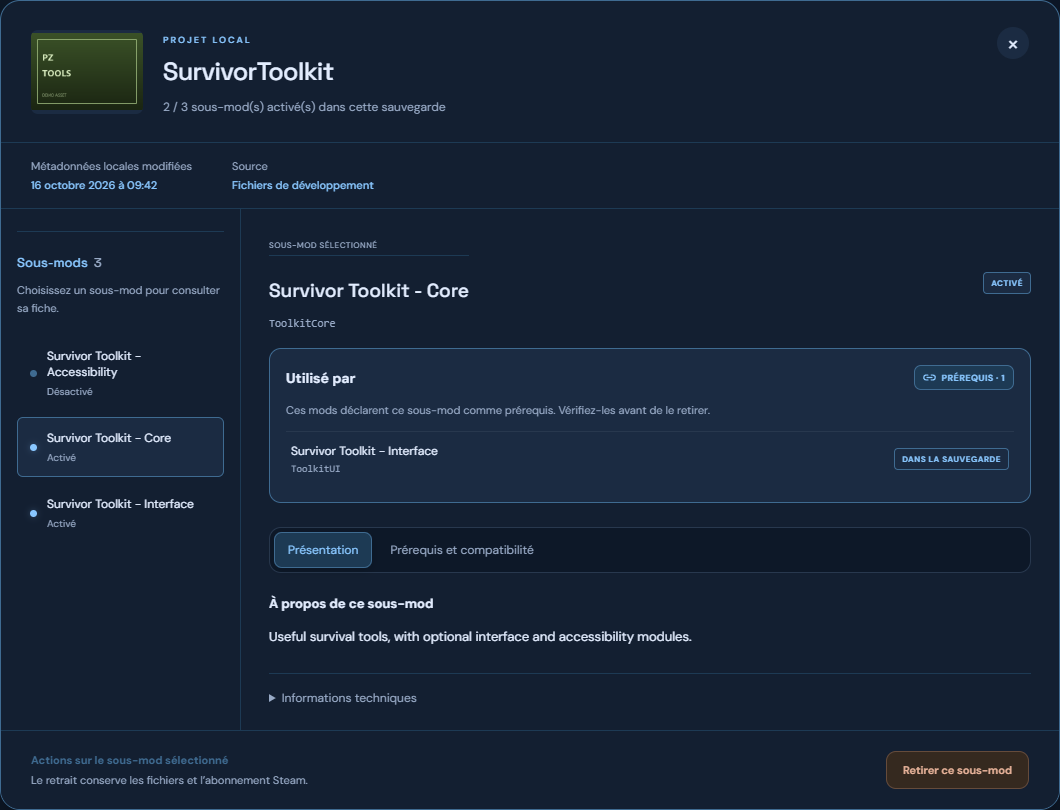
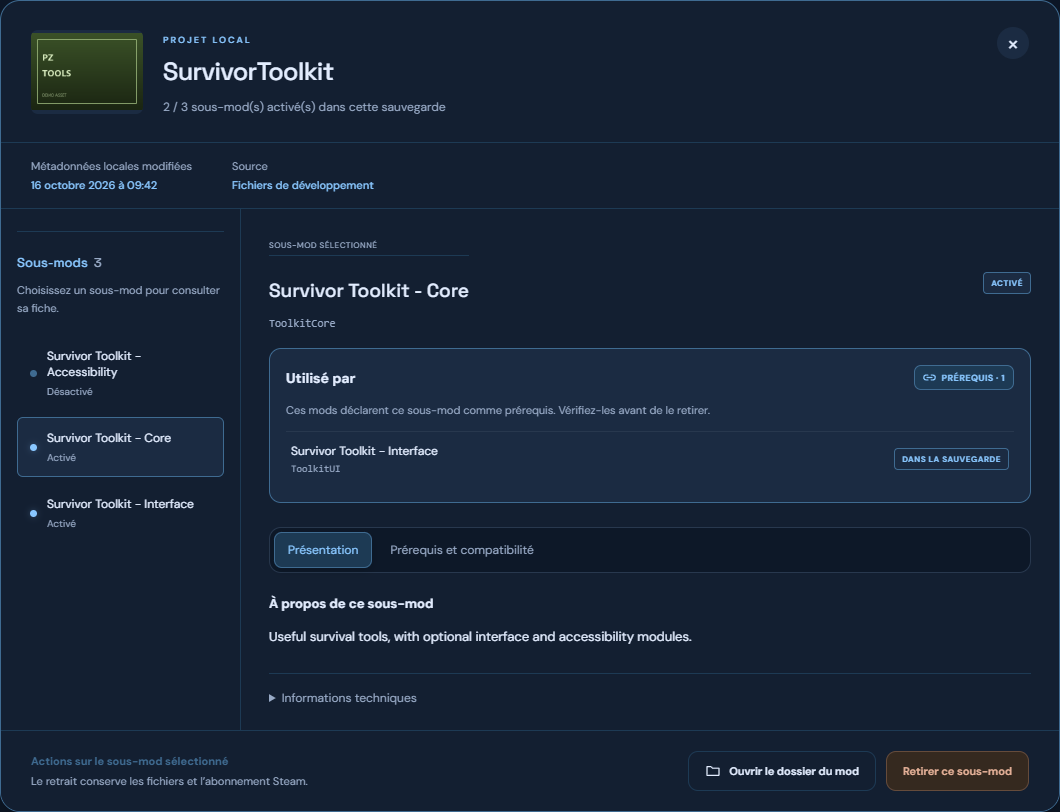
Open installed mod folders from the detail dialog

diff --git a/test/explorer.test.ts b/test/explorer.test.ts
@@ -1,0 +1,98 @@
+import assert from 'node:assert/strict';
+import { test } from 'node:test';
+import fs from 'node:fs/promises';
+import os from 'node:os';
+import path from 'node:path';
+import { ExplorerService } from '../src/application/explorer.js';
+import { LocalLibrary } from '../src/adapters/local-library.js';
+
+test('Explorer service only opens a known opaque directory key through its port', async () => {
+  const key = 'a'.repeat(24);
+  const opened: string[] = [];
+  const resolved: string[] = [];
+  const service = new ExplorerService(
+    {
+      resolveModDirectory: async (value) => {
+        resolved.push(value);
+        return value === key ? 'fixture-directory' : undefined;
+      },
+    },
+    {
+      open: async (directory) => {
+        opened.push(directory);
+      },
+    },
+  );
+  for (const value of [undefined, '', '../private', 'C:\\private', 'a'.repeat(25), 'b'.repeat(24)])
+    await assert.rejects(service.openModFolder(value), /Dossier de mod introuvable/);
+  assert.deepEqual(opened, []);
+  assert.deepEqual(resolved, ['b'.repeat(24)]);
+  assert.deepEqual(await service.openModFolder(key), { opened: true });
+  assert.deepEqual(opened, ['fixture-directory']);
+});
+
+test('folder keys resolve mod roots above B42/common and are invalidated with scans and configuration', async () => {
+  const root = await fs.mkdtemp(path.join(os.tmpdir(), 'pz-explorer-'));
+  try {
+    const write = async (file: string, text: string) => {
+      await fs.mkdir(path.dirname(file), { recursive: true });
+      await fs.writeFile(file, text);
+    };
+    const versioned = path.join(root, 'mods', 'Versioned');
+    const common = path.join(root, 'mods', 'Common');
+    const development = path.join(root, 'Workshop', 'Project', 'Contents', 'mods', 'Development');
+    await write(path.join(versioned, '42', 'mod.info'), 'id=Versioned');
+    await write(path.join(common, 'common', 'mod.info'), 'id=Common');
+    await write(path.join(development, '42', 'mod.info'), 'id=Development');
+    const library = new LocalLibrary({ userDir: root, steamPath: path.join(root, 'steam') });
+    await library.init();
+    const mods = await library.scan('42.13');
+    for (const [id, folder] of [
+      ['Versioned', versioned],
+      ['Common', common],
+      ['Development', development],
+    ]) {
+      const mod = mods.find((mod) => mod.id === id);
+      assert.match(mod?.folderKey || '', /^[a-f0-9]{24}$/);
+      assert.equal(await library.resolveModDirectory(mod!.folderKey!), await fs.realpath(folder));
+    }
+    const versionedKey = mods.find((mod) => mod.id === 'Versioned')!.folderKey!;
+    await fs.rm(versioned, { recursive: true });
+    assert.equal(await library.resolveModDirectory(versionedKey), undefined);
+    assert.equal(await library.resolveModDirectory(root), undefined);
+    await library.scan('42.13', true);
+    assert.equal(await library.resolveModDirectory(versionedKey), undefined);
+    const commonKey = mods.find((mod) => mod.id === 'Common')!.folderKey!;
+    await library.configure({});
+    assert.equal(await library.resolveModDirectory(commonKey), undefined);
+  } finally {
+    await fs.rm(root, { recursive: true, force: true });
+  }
+});
+
+test('linked workspace mods resolve their trusted workspace root and reject retargeted links', async () => {
+  const root = await fs.mkdtemp(path.join(os.tmpdir(), 'pz-explorer-link-'));
+  try {
+    const workspace = path.join(root, 'workspace');
+    const other = path.join(root, 'other');
+    const modsRoot = path.join(root, 'user', 'mods');
+    await fs.mkdir(path.join(workspace, '42'), { recursive: true });
+    await fs.writeFile(path.join(workspace, '42', 'mod.info'), 'id=Linked');
+    await fs.mkdir(other);
+    await fs.mkdir(modsRoot, { recursive: true });
+    const link = path.join(modsRoot, 'Linked');
+    await fs.symlink(workspace, link, process.platform === 'win32' ? 'junction' : 'dir');
+    const library = new LocalLibrary({
+      userDir: path.join(root, 'user'),
+      steamPath: path.join(root, 'steam'),
+    });
+    await library.init();
+    const [mod] = await library.scan('42.13');
+    assert.equal(await library.resolveModDirectory(mod.folderKey!), await fs.realpath(workspace));
+    await fs.unlink(link);
+    await fs.symlink(other, link, process.platform === 'win32' ? 'junction' : 'dir');
+    assert.equal(await library.resolveModDirectory(mod.folderKey!), undefined);
+  } finally {
+    await fs.rm(root, { recursive: true, force: true });
+  }
+});

diff --git a/src/adapters/local-library.ts b/src/adapters/local-library.ts
@@ -8,6 +8,7 @@ import type { LibraryPort } from '../application/service.js';
 import type { ConfigurableLibraryPort } from '../application/settings.js';
 import { parsePathOverrides, type PathOverrides, type SettingsResult } from '../domain/settings.js';
 import { validateAddedId } from '../domain/additions.js';
+import type { DirectoryResolverPort } from '../application/explorer.js';
 import {
   compareVersion,
   normalize,
@@ -50,7 +51,7 @@ async function isGameRunning() {
   return /"ProjectZomboid[^"\r\n]*\.exe"/i.test(processes.stdout);
 }
 
-export class LocalLibrary implements LibraryPort, ConfigurableLibraryPort {
+export class LocalLibrary implements LibraryPort, ConfigurableLibraryPort, DirectoryResolverPort {
   private root: string;
   private steamPath = '';
   private savesRoot = '';
@@ -63,6 +64,7 @@ export class LocalLibrary implements LibraryPort, ConfigurableLibraryPort {
     this.root = options.userDir || process.env.PZ_USER_DIR || path.join(os.homedir(), 'Zomboid');
   }
   private images = new Map<string, string>();
+  private modDirectories = new Map<string, { folder: string; realPath: string }>();
   private savePaths = new Map<string, string>();
   private busy = false;
   private gameVersion = '';
@@ -139,6 +141,7 @@ export class LocalLibrary implements LibraryPort, ConfigurableLibraryPort {
       this.overrides = overrides;
       this.generation++;
       this.images.clear();
+      this.modDirectories.clear();
       this.savePaths.clear();
       this.scanned = [];
       this.scannedAt = 0;
@@ -213,6 +216,7 @@ export class LocalLibrary implements LibraryPort, ConfigurableLibraryPort {
       return this.scanned;
     const mods: Mod[] = [];
     const images = new Map<string, string>();
+    const modDirectories = new Map<string, { folder: string; realPath: string }>();
     const roots = [
       ...this.localRoots.map((folder) => ({ folder, workshop: false, development: false })),
       { folder: path.join(this.root, 'Workshop'), workshop: false, development: true },
@@ -275,6 +279,10 @@ export class LocalLibrary implements LibraryPort, ConfigurableLibraryPort {
           }
           if (!info.id) continue;
           const id = normalize(info.id);
+          const directory = await fs.realpath(modDir).catch(() => undefined);
+          const folderKey = directory ? hash(`directory:${directory}`).slice(0, 24) : undefined;
+          if (folderKey && directory)
+            modDirectories.set(folderKey, { folder: modDir, realPath: directory });
           const imageKey = hash(infoPath).slice(0, 24);
           let image: string | undefined;
           for (const imageName of [info.poster, info.icon].filter(Boolean)) {
@@ -322,6 +330,7 @@ export class LocalLibrary implements LibraryPort, ConfigurableLibraryPort {
             incompatible: list(info.incompatible || info.incompatibility || info.incompatiblemods),
             workshopId,
             image,
+            folderKey,
             source: infoPath,
             metadataModifiedAt: await fs
               .stat(infoPath)
@@ -339,6 +348,7 @@ export class LocalLibrary implements LibraryPort, ConfigurableLibraryPort {
     if (generation !== this.generation || this.configuring)
       throw Error('Les chemins ont changé. Actualise la liste.');
     this.images = images;
+    this.modDirectories = modDirectories;
     this.scanned = mods;
     this.scannedAt = Date.now();
     this.scannedVersion = version;
@@ -347,6 +357,25 @@ export class LocalLibrary implements LibraryPort, ConfigurableLibraryPort {
   async image(key: string) {
     this.ensureConfigured();
     return this.images.get(key);
+  }
+  async resolveModDirectory(key: string) {
+    this.ensureConfigured();
+    const generation = this.generation;
+    if (!/^[a-f0-9]{24}$/.test(key)) return undefined;
+    const directory = this.modDirectories.get(key);
+    if (!directory) return undefined;
+    try {
+      if (!(await fs.stat(directory.folder)).isDirectory()) return undefined;
+      const actual = await fs.realpath(directory.folder);
+      return !this.configuring &&
+        generation === this.generation &&
+        this.modDirectories.get(key) === directory &&
+        actual === directory.realPath
+        ? directory.realPath
+        : undefined;
+    } catch {
+      return undefined;
+    }
   }
   async remove(id: string, ids: string[], revision: string) {
     return this.writeSave(id, revision, (original) => {

diff --git a/web/ModDetail.tsx b/web/ModDetail.tsx
@@ -1,5 +1,5 @@
 import { Tooltip } from './ui/Tooltip';
-import { translateIssue, contentFallback } from './messages';
+import { translateIssue, translateError, contentFallback } from './messages';
 import { useI18n } from './i18n';
 import { useState } from 'react';
 import type { Mod, Issue } from '../src/domain/mods';
@@ -20,6 +20,7 @@ type Props = {
   onSelect: (mod: Mod) => void;
   onRemove: (mod: Mod) => void;
   onAdd?: (mod: Mod) => void;
+  onOpenFolder: (mod: Mod) => Promise<void>;
   onClose: () => void;
 };
 const plain = (text: string) => text.replace(/\[\/?[^\]]+\]/g, '').replace(/<[^>]*>/g, '');
@@ -47,10 +48,27 @@ export function ModDetail({
   onSelect,
   onRemove,
   onAdd,
+  onOpenFolder,
   onClose,
 }: Props) {
   const { t, language } = useI18n();
   const [tab, setTab] = useState<'description' | 'compatibility'>('description');
+  const [openingFolder, setOpeningFolder] = useState(false);
+  const [folderError, setFolderError] = useState<{ source: string; message: string }>();
+  async function openFolder() {
+    setOpeningFolder(true);
+    setFolderError(undefined);
+    try {
+      await onOpenFolder(mod);
+    } catch (reason) {
+      setFolderError({
+        source: mod.source,
+        message: reason instanceof Error ? reason.message : String(reason),
+      });
+    } finally {
+      setOpeningFolder(false);
+    }
+  }
   const parent = groupMods(members)[0];
   const title = workshop?.title || (parent ? parentTitle(parent, {}) : mod.name);
   const poster = workshop?.preview_url || (mod.image ? '/api/image/' + mod.image : undefined);
@@ -312,6 +330,27 @@ export function ModDetail({
           <small>{t('Le retrait conserve les fichiers et l’abonnement Steam.')}</small>
         </div>
         <div className="detail-footer-actions">
+          <Tooltip
+            content={t(
+              'Ouvre le dossier du sous-mod sélectionné dans l’Explorateur Windows, à la racine du mod.',
+            )}
+          >
+            <button
+              className="button"
+              disabled={!mod.folderKey || openingFolder}
+              onClick={() => void openFolder()}
+            >
+              <svg width="16" height="16" viewBox="0 0 20 20" fill="none" aria-hidden="true">
+                <path
+                  d="M2.5 6V4.5h5l2 2h8v9h-15V6Z"
+                  stroke="currentColor"
+                  strokeWidth="1.5"
+                  strokeLinejoin="round"
+                />
+              </svg>
+              {openingFolder ? t('Ouverture…') : t('Ouvrir le dossier du mod')}
+            </button>
+          </Tooltip>
           {active && (
             <Tooltip
               content={t(
@@ -346,6 +385,11 @@ export function ModDetail({
           )}
         </div>
       </footer>
+      {folderError?.source === mod.source && (
+        <div className="alert error folder-open-error" role="alert">
+          {translateError(folderError.message)}
+        </div>
+      )}
     </Dialog>
   );
 }

diff --git a/src/adapters/server.ts b/src/adapters/server.ts
@@ -14,6 +14,8 @@ import { SteamAccount } from './steam-account.js';
 import { SteamCatalog } from './steam-catalog.js';
 import { SettingsService } from '../application/settings.js';
 import { SettingsStore } from './settings-store.js';
+import { ExplorerService } from '../application/explorer.js';
+import { WindowsExplorer } from './windows-explorer.js';
 const root = path.resolve(path.dirname(fileURLToPath(import.meta.url)), '../..');
 const app = Fastify({ logger: false, bodyLimit: 1024 * 1024 });
 const library = new LocalLibrary();
@@ -29,6 +31,7 @@ const service = new ModService(
   new PosterCache({ directory: path.join(root, '.cache/posters') }),
 );
 const transfers = new TransferService(library);
+const explorer = new ExplorerService(library, new WindowsExplorer());
 const steamAccount = new SteamAccount(path.join(root, '.cache/steam-profile'));
 const steamActions = new SteamActionsService(steamAccount, new SteamCatalog());
 app.addHook('onClose', async () => steamAccount.close());
@@ -59,6 +62,7 @@ app.get('/api/overview', async (req) => {
   return service.overview(save, refresh === '1');
 });
 app.get('/api/settings', async () => settings.get());
+app.post('/api/mods/open-folder', async (req) => explorer.openModFolder(requestBody(req.body).key));
 app.post('/api/settings', async (req) => settings.update(requestBody(req.body).paths));
 app.post('/api/transfers/export', async (req) => {
   const body = requestBody(req.body);

diff --git a/src/adapters/windows-explorer.ts b/src/adapters/windows-explorer.ts
@@ -1,0 +1,25 @@
+import { spawn } from 'node:child_process';
+import path from 'node:path';
+import type { ExplorerPort } from '../application/explorer.js';
+
+export class WindowsExplorer implements ExplorerPort {
+  async open(directory: string) {
+    if (!path.isAbsolute(directory))
+      throw Error('Impossible d’ouvrir ce dossier dans l’Explorateur Windows.');
+    await new Promise<void>((resolve, reject) => {
+      const child = spawn('explorer.exe', [directory], {
+        shell: false,
+        // This visible GUI window is explicitly requested by the user.
+        windowsHide: false,
+        stdio: 'ignore',
+      });
+      child.once('error', () =>
+        reject(Error('Impossible d’ouvrir ce dossier dans l’Explorateur Windows.')),
+      );
+      child.once('spawn', () => {
+        child.unref();
+        resolve();
+      });
+    });
+  }
+}

diff --git a/src/application/explorer.ts b/src/application/explorer.ts
@@ -1,0 +1,21 @@
+export interface DirectoryResolverPort {
+  resolveModDirectory(key: string): Promise<string | undefined>;
+}
+export interface ExplorerPort {
+  open(directory: string): Promise<void>;
+}
+
+export class ExplorerService {
+  constructor(
+    private readonly directories: DirectoryResolverPort,
+    private readonly explorer: ExplorerPort,
+  ) {}
+  async openModFolder(key: unknown) {
+    if (typeof key !== 'string' || !/^[a-f0-9]{24}$/.test(key))
+      throw Error('Dossier de mod introuvable. Actualise l’inventaire.');
+    const directory = await this.directories.resolveModDirectory(key);
+    if (!directory) throw Error('Dossier de mod introuvable. Actualise l’inventaire.');
+    await this.explorer.open(directory);
+    return { opened: true };
+  }
+}

diff --git a/web/main.tsx b/web/main.tsx
@@ -919,6 +919,11 @@ function App() {
             setConfirm(true);
           }}
           onAdd={data?.selected ? openAdd : undefined}
+          onOpenFolder={async (mod) => {
+            if (!mod.folderKey)
+              throw Error(t('Dossier du mod indisponible. Actualisez la bibliothèque.'));
+            await api('/api/mods/open-folder', { key: mod.folderKey });
+          }}
           onClose={() => setDetail(undefined)}
         />
       )}

diff --git a/web/themes.css b/web/themes.css
@@ -326,6 +326,12 @@ body {
 .dependent-row .tag {
   flex-shrink: 0;
 }
+.folder-open-error {
+  margin: 16px 24px;
+}
+.detail-footer-actions .button:not(.primary):not(.destructive) {
+  color: var(--text);
+}
 @keyframes panel-reveal {
   from {
     opacity: 0;

diff --git a/src/domain/mods.ts b/src/domain/mods.ts
@@ -6,6 +6,7 @@ export type Mod = {
   requires: string[];
   incompatible: string[];
   image?: string;
+  folderKey?: string;
   source: string;
   versionMin?: string;
   versionMax?: string;

diff --git a/README.md b/README.md
@@ -118,6 +118,8 @@ Il correspond à **un abonnement Steam**, avec un titre, une description, un pos
 
 Chaque sous-mod possède son **propre ID** et son état dans la sauvegarde : **activé** ou **désactivé**. Cliquer sur son tag ouvre sa fiche, ses prérequis et ses incompatibilités.
 
+Dans sa fiche, **Ouvrir le dossier du mod** ouvre l’Explorateur Windows sur le répertoire du sous-mod sélectionné, pour les mods Steam comme pour les mods locaux. Il s’agit de la racine du mod, au-dessus des variantes `42` ou `common`. Le bouton est désactivé si les fichiers n’ont pas été détectés ; si le dossier a disparu depuis l’analyse, actualiser la bibliothèque. Le backend accepte uniquement un identifiant opaque associé à un dossier détecté, jamais un chemin libre fourni par le navigateur.
+
 - **Retirer un sous-mod** modifie uniquement sa présence dans `mods.txt`.
 - **Se désabonner sur Steam** concerne tout le parent et peut affecter d’autres sauvegardes.
 - Le bouton **Abonnement du parent** ouvre actuellement la fiche Steam : le désabonnement direct depuis l’application n’est pas implémenté.
